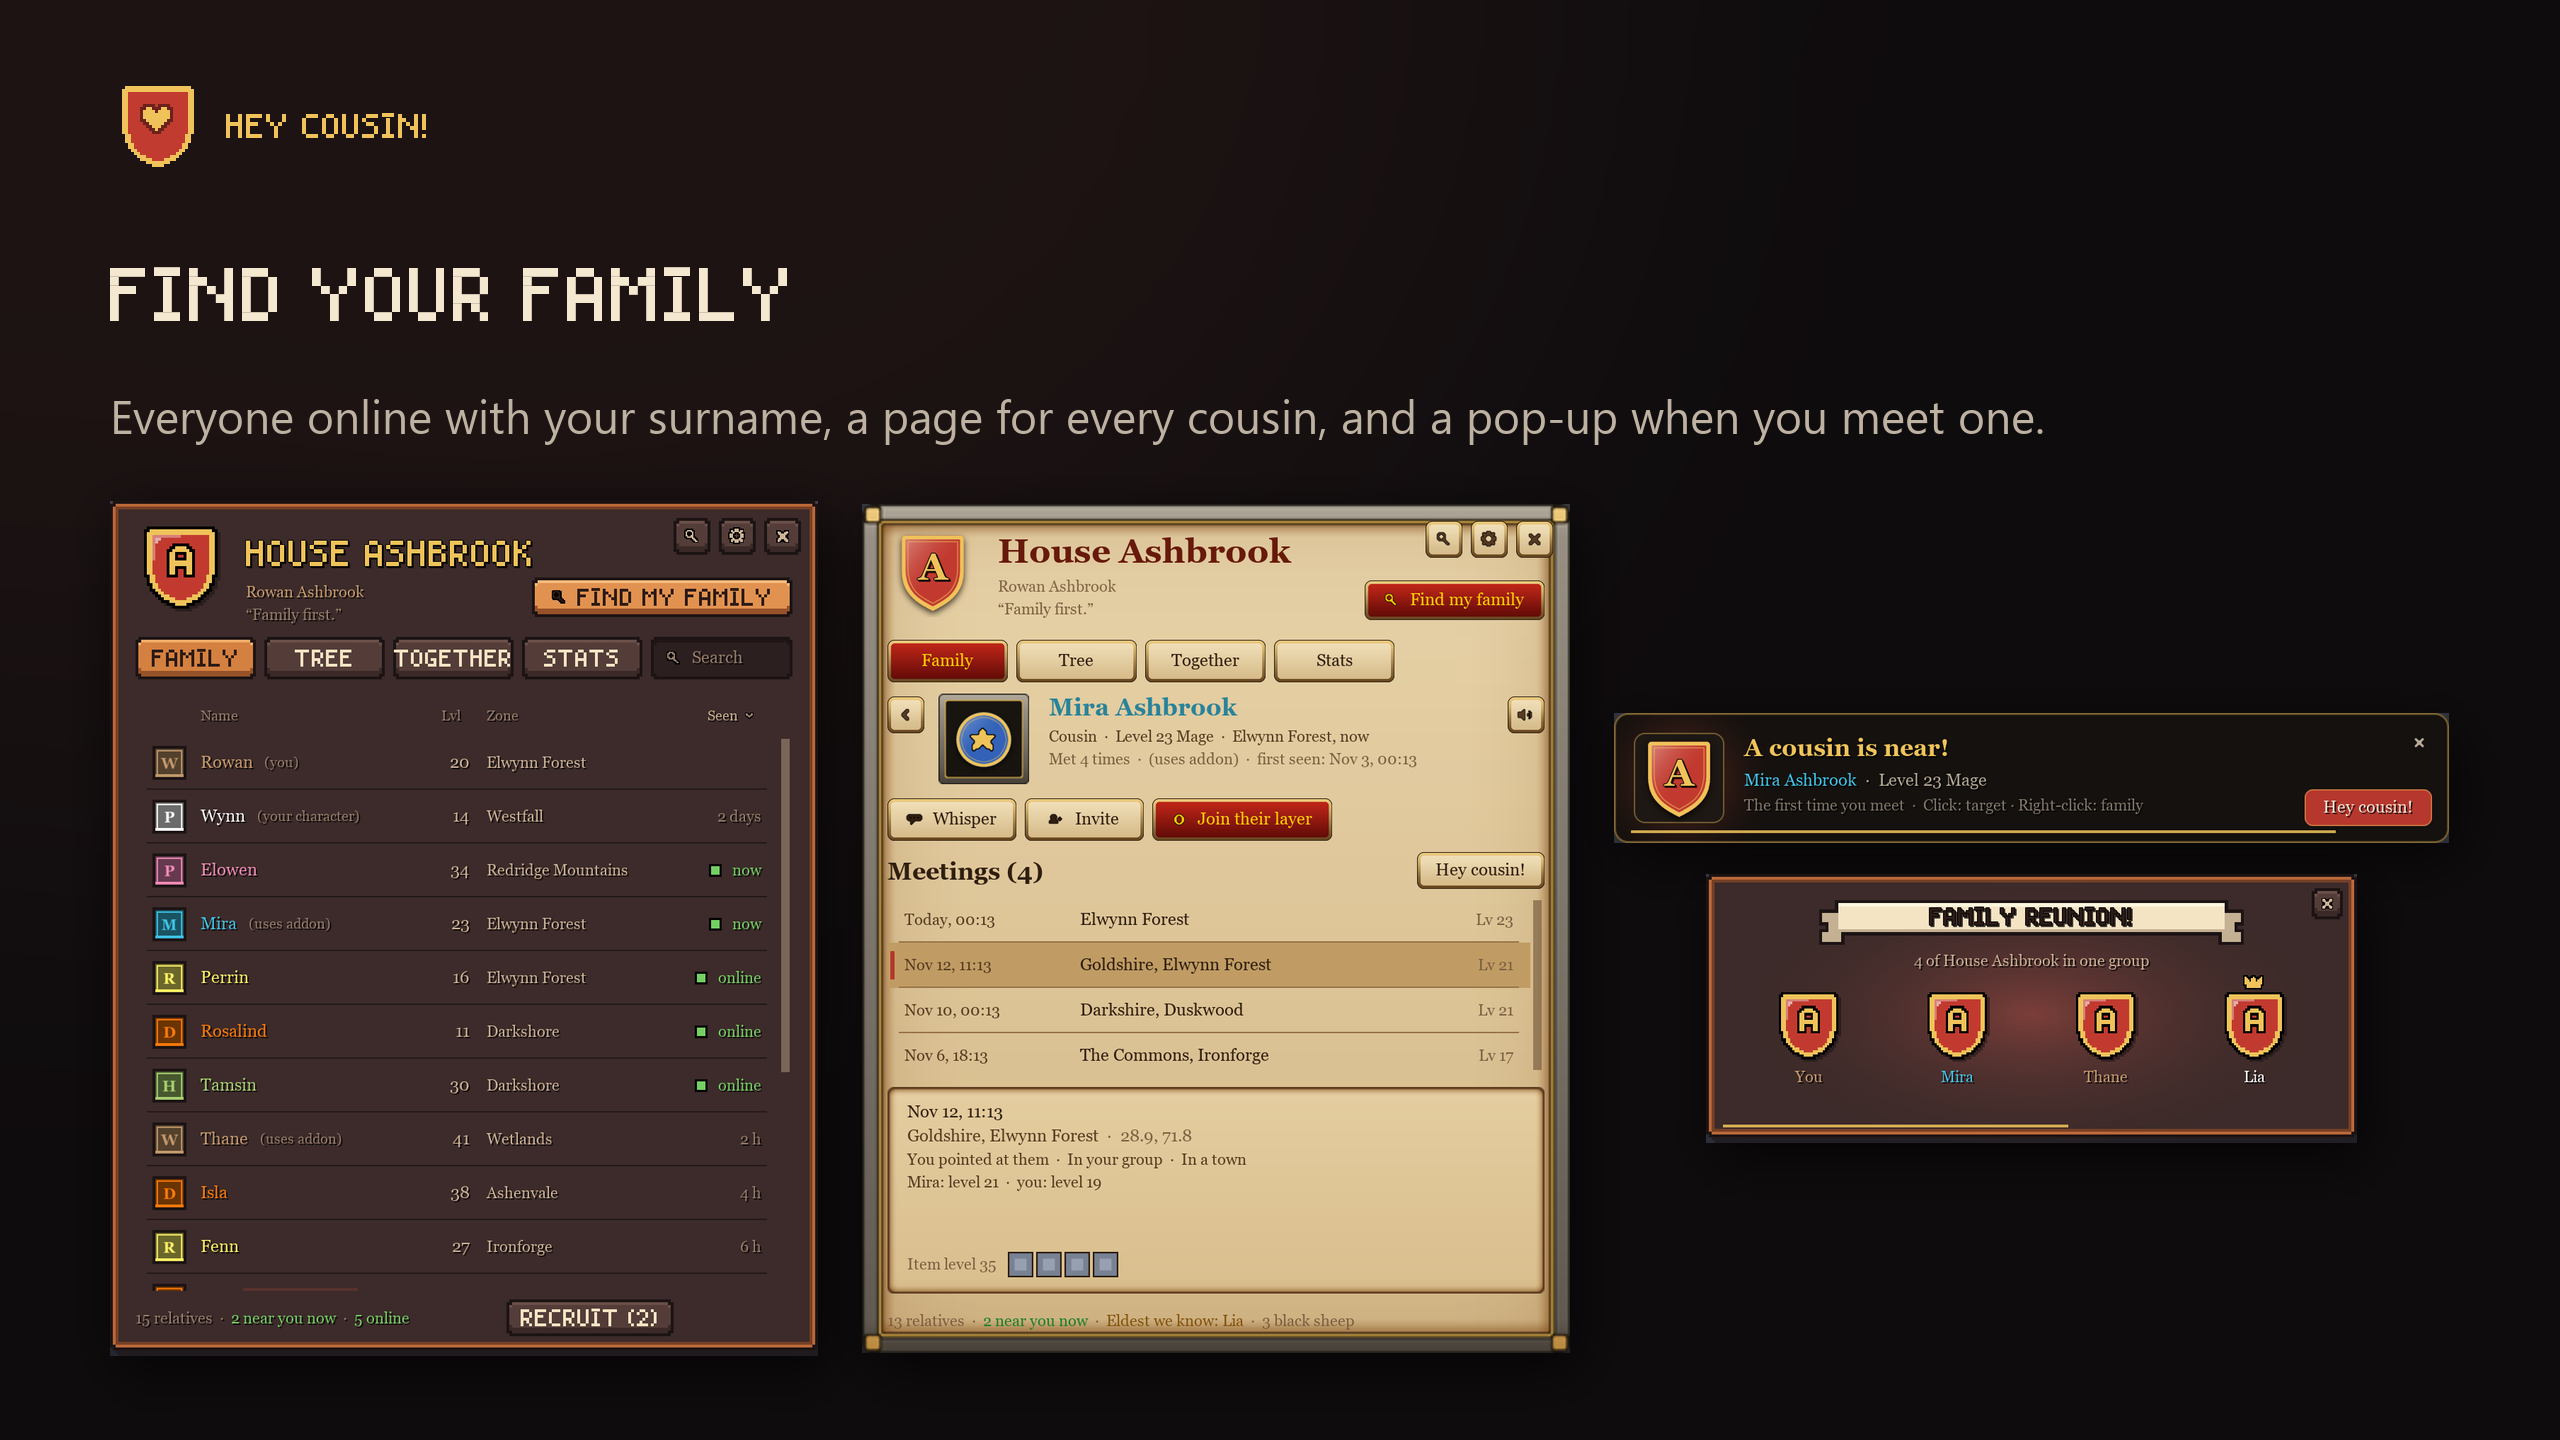
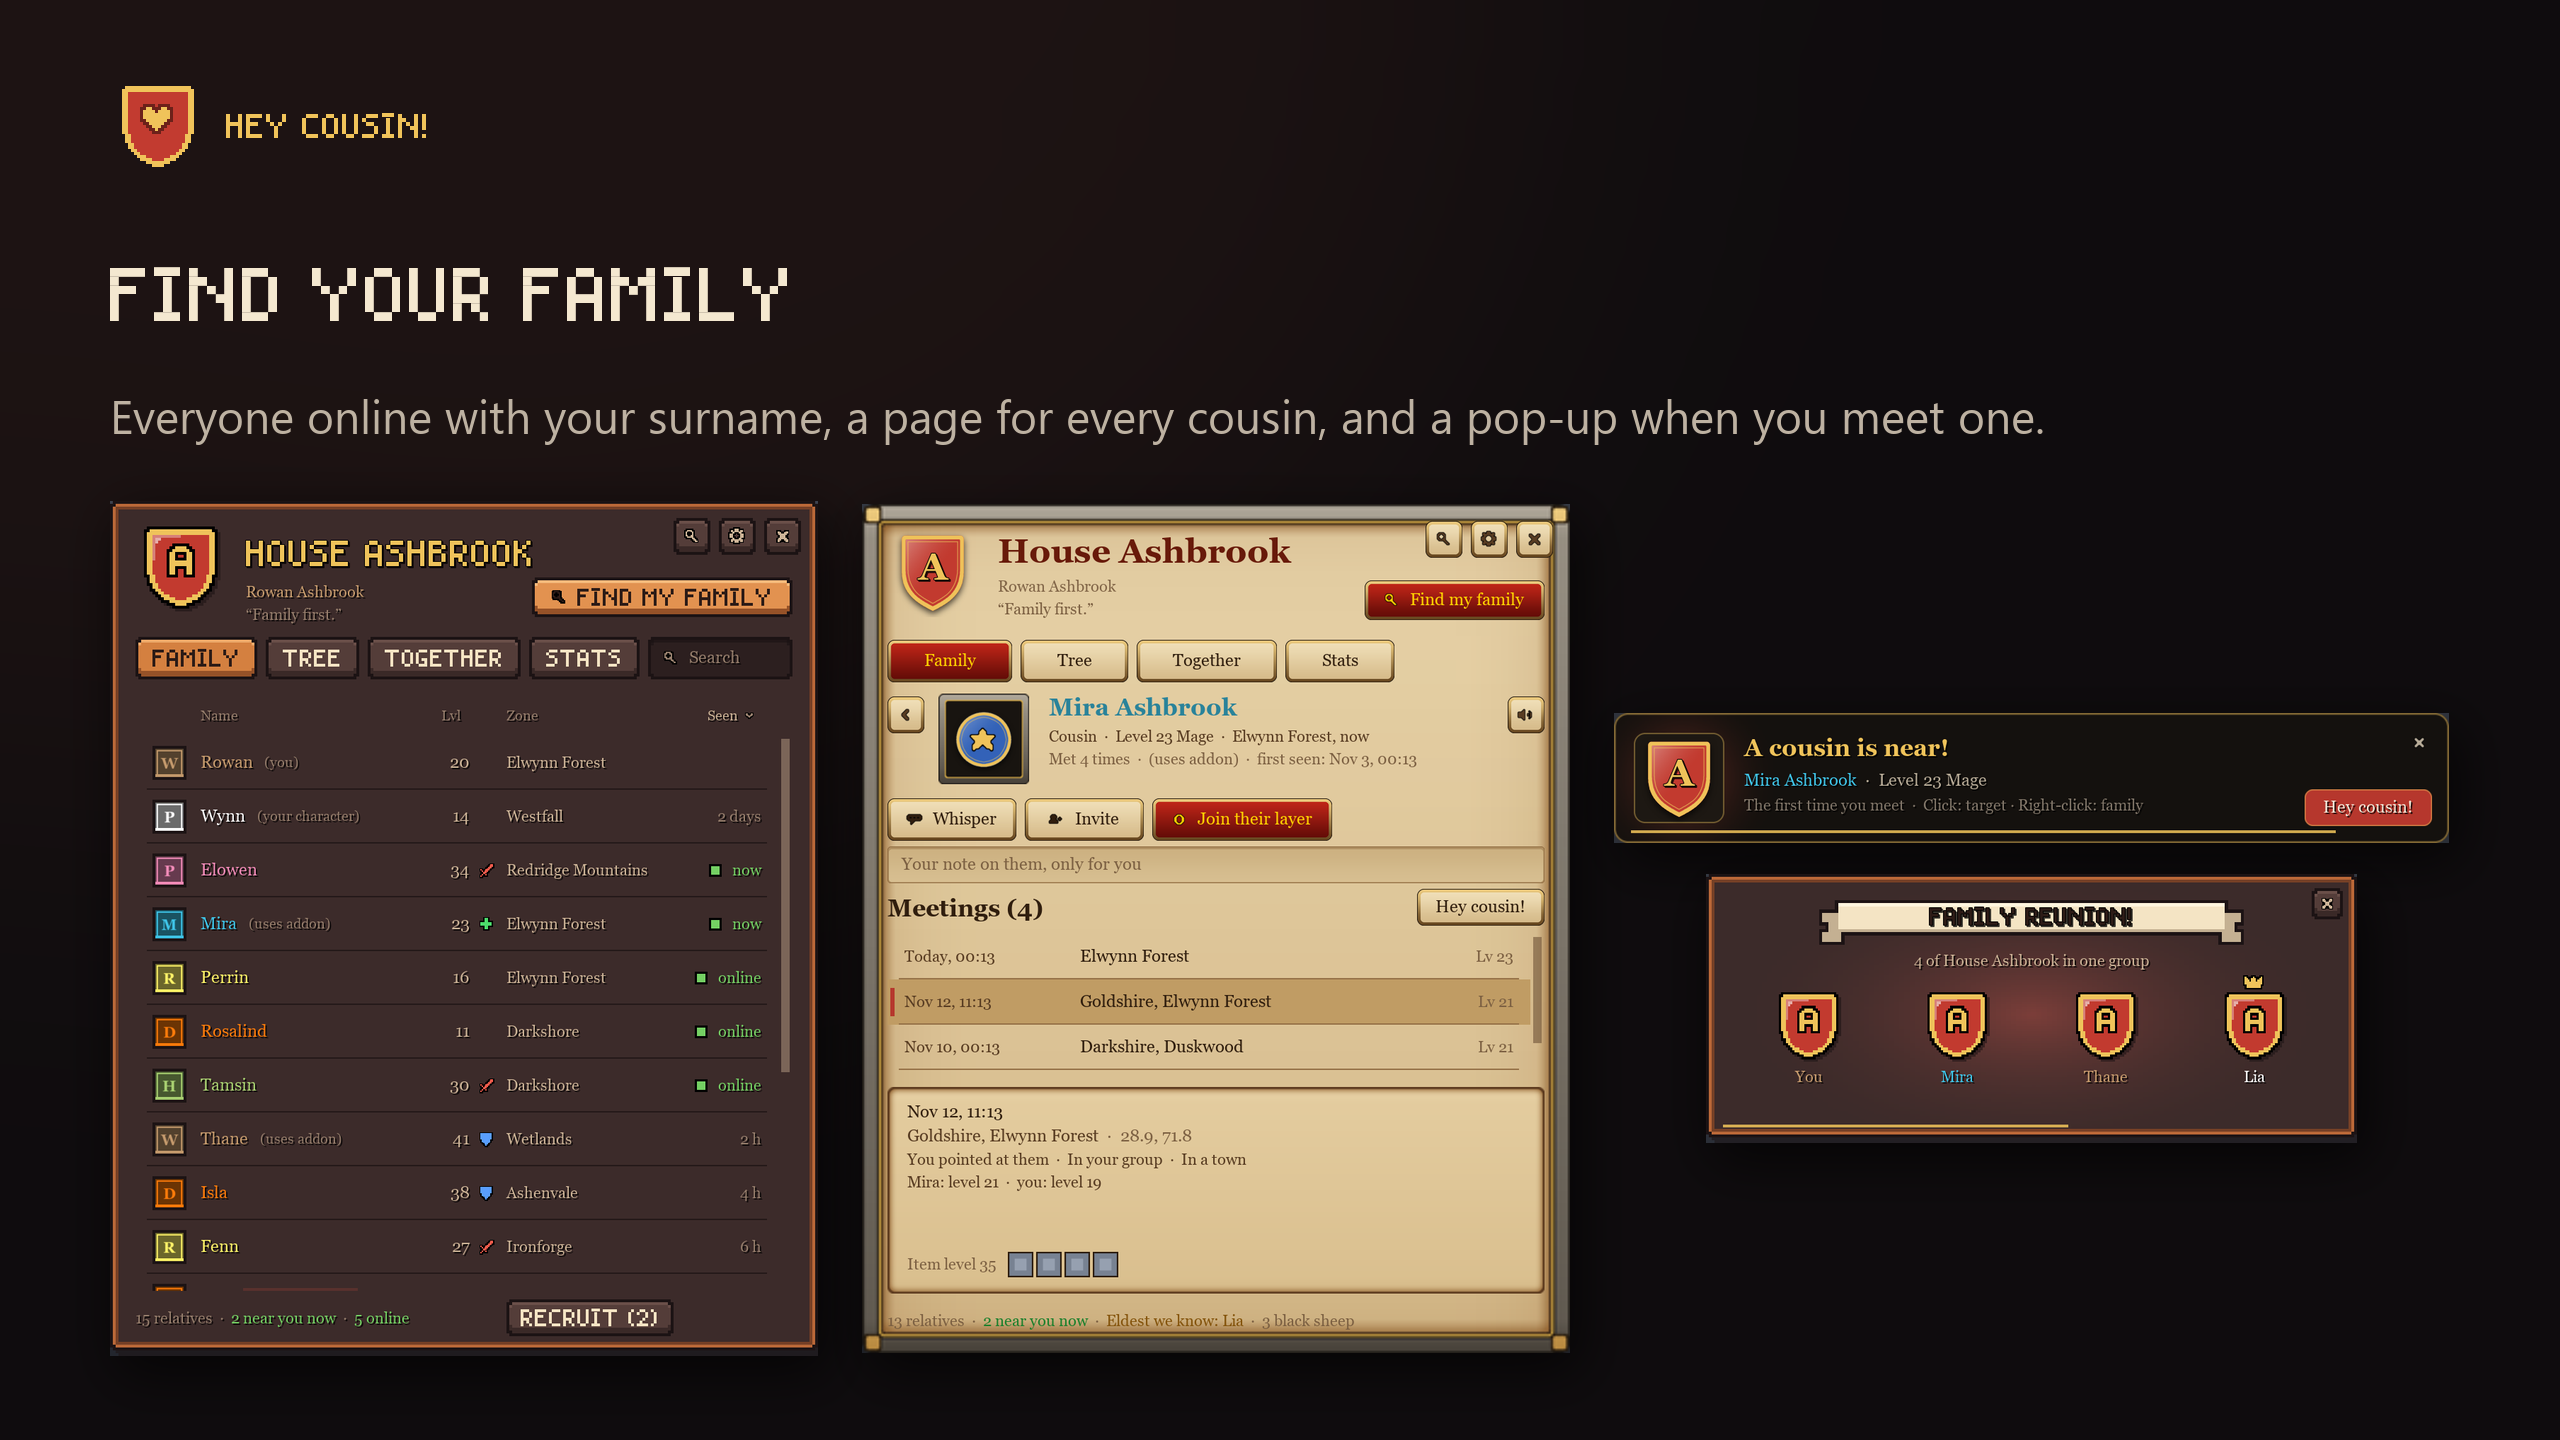
Version 1.3.0: role badges, notes on cousins, Crafters for many professions
And the store page text and pictures brought up to date.

diff --git a/Listing/description.md b/Listing/description.md
@@ -9,6 +9,7 @@ Hey Cousin! is the surname finder and family finder for World of Warcraft Foreve
 ![Find your family](IMAGE_FIND)
 
 - **One-click surname finder:** everyone online with your exact surname, with their level, zone and guild. Look up any other family name with `/cousin find Surname`.
+- **Your family list** shows each cousin's role (tank, healer or damage), and keeps your own private notes on them.
 - **It finds them by itself too:** around you, in chat, in your group and in your guild, and it remembers every meeting.
 - **"A cousin is near!"** A pop-up when you meet, "Long time no see!" after two weeks apart, and one click to wave hello.
 - **Family reunions:** a banner when cousins are in your group.
@@ -21,7 +22,7 @@ With cousins who have the addon too, in any guild:
 
 - **Family chat** (`/fam`) and a **family group finder** (LFG).
 - **Calls for help**, with an arrow to you.
-- **Who has it?** Ask the family for an item. **Crafters:** who makes what. **Quest buddies:** cousins near your level, on the same quests.
+- **Who has it?** Ask the family for an item. **Crafters:** who makes what, with every profession. **Quest buddies:** cousins near your level, on the same quests.
 
 ## See your family everywhere
 

diff --git a/Listing/description-curseforge.md b/Listing/description-curseforge.md
@@ -5,6 +5,7 @@ Hey Cousin! is the surname finder and family finder for World of Warcraft Foreve
 ## Find your family
 
 - **One-click surname finder:** everyone online with your exact surname, with their level, zone and guild. Look up any other family name with `/cousin find Surname`.
+- **Your family list** shows each cousin's role (tank, healer or damage), and keeps your own private notes on them.
 - **It finds them by itself too:** around you, in chat, in your group and in your guild, and it remembers every meeting.
 - **"A cousin is near!"** A pop-up when you meet, "Long time no see!" after two weeks apart, and one click to wave hello.
 - **Family reunions:** a banner when cousins are in your group.
@@ -15,7 +16,7 @@ With cousins who have the addon too, in any guild:
 
 - **Family chat** (`/fam`) and a **family group finder** (LFG).
 - **Calls for help**, with an arrow to you.
-- **Who has it?** Ask the family for an item. **Crafters:** who makes what. **Quest buddies:** cousins near your level, on the same quests.
+- **Who has it?** Ask the family for an item. **Crafters:** who makes what, with every profession. **Quest buddies:** cousins near your level, on the same quests.
 
 ## See your family everywhere
 

diff --git a/Listing/description-wago.md b/Listing/description-wago.md
@@ -5,6 +5,7 @@ Hey Cousin! is the surname finder and family finder for World of Warcraft Foreve
 ## Find your family
 
 - **One-click surname finder:** everyone online with your exact surname, with their level, zone and guild. Look up any other family name with `/cousin find Surname`.
+- **Your family list** shows each cousin's role (tank, healer or damage), and keeps your own private notes on them.
 - **It finds them by itself too:** around you, in chat, in your group and in your guild, and it remembers every meeting.
 - **"A cousin is near!"** A pop-up when you meet, "Long time no see!" after two weeks apart, and one click to wave hello.
 - **Family reunions:** a banner when cousins are in your group.
@@ -15,7 +16,7 @@ With cousins who have the addon too, in any guild:
 
 - **Family chat** (`/fam`) and a **family group finder** (LFG).
 - **Calls for help**, with an arrow to you.
-- **Who has it?** Ask the family for an item. **Crafters:** who makes what. **Quest buddies:** cousins near your level, on the same quests.
+- **Who has it?** Ask the family for an item. **Crafters:** who makes what, with every profession. **Quest buddies:** cousins near your level, on the same quests.
 
 ## See your family everywhere
 

diff --git a/CHANGELOG.md b/CHANGELOG.md
@@ -1,4 +1,15 @@
-# Hey Cousin! 1.2.0
+# Hey Cousin! 1.3.0
+
+- **Role badges** in your family list, by each level: a blue shield for a tank, a green cross for a healer, a
+  red sword for damage. Yours is the role you picked for the group finder, else your spec's, else your main
+  talent tree's; a cousin's as their addon last said. Its name is on their page.
+- **Notes on cousins:** a box on a cousin's page keeps your note, and their tooltip shows it. It stays in
+  your own saved file (every character on your account sees it) and is never sent to anyone.
+- **Crafters, for many professions:** one row a cousin with all their professions, the most skilled first,
+  a box to find a profession, and a line with yours on top (or why cousins don't see them).
+- **Tabs fit their words** in every language and look: TOGETHER was cut in the pixel font.
+
+## 1.2.0
 
 - **The Together tab** (the Groups tab, grown): with cousins who have the addon too,
   - **Groups**, as before: what you're looking for, and Join.

diff --git a/README.md b/README.md
@@ -52,6 +52,8 @@ a surname, like a family. Hey Cousin! finds your relatives and makes the family 
   asked of the family; each addon answers with a count, nothing else), **Crafters** and **Quest
   buddies**. What you share has its switches in the settings.
 - **Mute** a cousin, only for you, and bad words from cousins masked as the game's language filter says.
+- **Role badges** (tank, healer, damage) by each level in your family list, and **private notes** on any
+  cousin, kept in your saved file for every character on your account, never sent.
 - **Long time no see!**: a pop-up when you meet a cousin again after two weeks apart.
 - **Family achievements**: eleven small things a family does, quiet on purpose: one line in chat when
   you earn one, no pop-up, no sound. The star on the Stats tab. Your crest grows with them.
